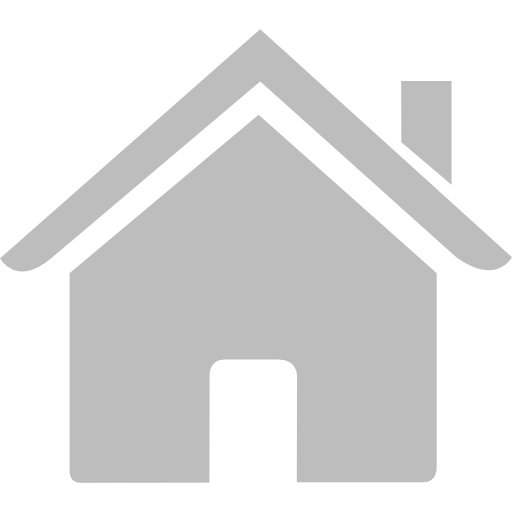
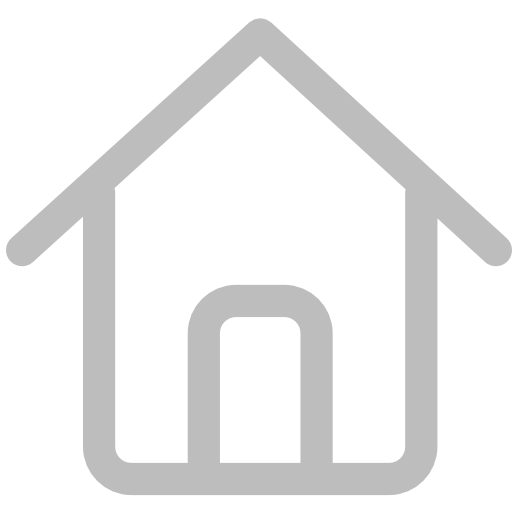
working on periodo de aportes

diff --git a/resources/views/afiliados/view.blade.php b/resources/views/afiliados/view.blade.php
@@ -769,11 +769,11 @@
                         <div class="panel-heading">
                             <div class="row">  
                                 <div class="col-md-11">
-                                    <h3 class="panel-title">Años de Aporte</h3>
+                                    <h3 class="panel-title">Periodo de Aportes</h3>
                                 </div>
                                 @if($info_dom == 1)
                                     <div class="col-md-1 text-right" data-toggle="tooltip" data-placement="top" data-original-title="Editar">
-                                        <div data-toggle="modal" data-target="#myModal-domicilio"> 
+                                        <div data-toggle="modal" data-target="#myModal-periodo-aportes"> 
                                             <span class="glyphicon glyphicon-pencil"  aria-hidden="true"></span>
                                         </div>
                                     </div>
@@ -850,9 +850,9 @@
 
                                 @else
                                     <div class="row text-center">
-                                        <div data-toggle="modal" data-target="#myModal-domicilio"> 
-                                            <button type="button" class="btn btn-default" data-toggle="tooltip" data-placement="bottom" title="" data-original-title="Adicionar Domicilio">
-                                                <img class="circle" src="{!! asset('images/home.png') !!}" width="40px" alt="icon">                                                                          
+                                        <div data-toggle="modal" data-target="#myModal-periodo-aportes"> 
+                                            <button type="button" class="btn btn-default" data-toggle="tooltip" data-placement="bottom" title="" data-original-title="Adicionar Periodo de Aportes">
+                                                <img class="circle" src="{!! asset('images/period.png') !!}" width="40px" alt="icon">                                                                          
                                             </button>
                                         </div>
                                     </div>
@@ -1609,6 +1609,82 @@
     </div>
 </div>
 
+<div id="myModal-periodo-aportes" class="modal fade" role="dialog">
+    <div class="modal-dialog">
+        <div class="modal-content panel-warning">
+            <div class="modal-header">
+                <button type="button" class="close" data-dismiss="modal" aria-hidden="true">&times;</button>
+                <h4 class="modal-title">Editar Periodo de Aportes</h4>
+            </div>
+            <div class="modal-body">
+
+                {!! Form::model($afiliado, ['method' => 'PATCH', 'route' => ['afiliado.update', $afiliado->id], 'class' => 'form-horizontal']) !!}
+                <input type="hidden" name="_token" value="{{{ csrf_token() }}}"/>
+                <input type="hidden" name="type" value="dom"/>
+                <div class="row">
+                    <div class="col-md-6">
+                        <div class="form-group">
+                                    {!! Form::label('depa_dir', 'DEPARTA MENTO', ['class' => 'col-md-4 control-label']) !!}
+                            <div class="col-md-8">
+                                {!! Form::select('depa_dir', $list_depas, $afiliado->depa_dir_id, ['class' => 'combobox form-control']) !!}
+                                <span class="help-block">Seleccione Departamento</span>
+                            </div>
+                        </div>
+                        <div class="form-group">
+                                {!! Form::label('zona', 'ZONA', ['class' => 'col-md-4 control-label']) !!}
+                            <div class="col-md-8">
+                                {!! Form::text('zona', $afiliado->zona, ['class'=> 'form-control', 'onkeyup' => 'this.value=this.value.toUpperCase()']) !!}
+                                <span class="help-block">Zona</span>
+                            </div>
+                        </div>
+                        <div class="form-group">
+                                {!! Form::label('calle', 'CALLE', ['class' => 'col-md-4 control-label']) !!}
+                            <div class="col-md-8">
+                                {!! Form::text('calle', $afiliado->calle, ['class'=> 'form-control', 'onkeyup' => 'this.value=this.value.toUpperCase()']) !!}
+                                <span class="help-block">Calle</span>
+                            </div>
+                        </div>
+                                                          
+                    </div>
+                    <div class="col-md-6">
+                        <div class="form-group">
+                                {!! Form::label('num_domi', 'NÚMERO DOMICILIO', ['class' => 'col-md-4 control-label']) !!}
+                            <div class="col-md-8">
+                                {!! Form::text('num_domi', $afiliado->num_domi, ['class'=> 'form-control', 'onkeyup' => 'this.value=this.value.toUpperCase()']) !!}
+                                <span class="help-block">Número de Domicilio</span>
+                            </div>
+                        </div>
+                        <div class="form-group">
+                                {!! Form::label('tele', 'TELÉFONO', ['class' => 'col-md-4 control-label']) !!}
+                            <div class="col-md-8">
+                                {!! Form::text('tele', $afiliado->tele, ['class'=> 'form-control', 'onkeyup' => 'this.value=this.value.toUpperCase()']) !!}
+                                <span class="help-block">Teléfono fijo</span>
+                            </div>
+                        </div>
+                        <div class="form-group">
+                                {!! Form::label('celu', 'CELULAR', ['class' => 'col-md-4 control-label']) !!}
+                            <div class="col-md-8">
+                                {!! Form::text('celu', $afiliado->celu, ['class'=> 'form-control', 'onkeyup' => 'this.value=this.value.toUpperCase()']) !!}
+                                <span class="help-block">Teléfono Celular</span>
+                            </div>
+                        </div>
+                    </div>
+                </div>
+
+                <div class="row text-center">
+                    <div class="form-group">
+                        <div class="col-md-12">
+                            <a href="{!! url('afiliado/' . $afiliado->id) !!}" data-target="#" class="btn btn-raised btn-warning">Cancelar&nbsp;&nbsp;<span class="glyphicon glyphicon-remove"></span></a>
+                            &nbsp;&nbsp;<button type="submit" class="btn btn-raised btn-primary">Actualizar&nbsp;&nbsp;<span class="glyphicon glyphicon-floppy-disk" aria-hidden="true"></span></button>
+                        </div>
+                    </div>
+                </div>
+            {!! Form::close() !!}
+
+            </div>
+        </div>
+    </div>
+</div>
 @endsection
 
 @push('scripts')
